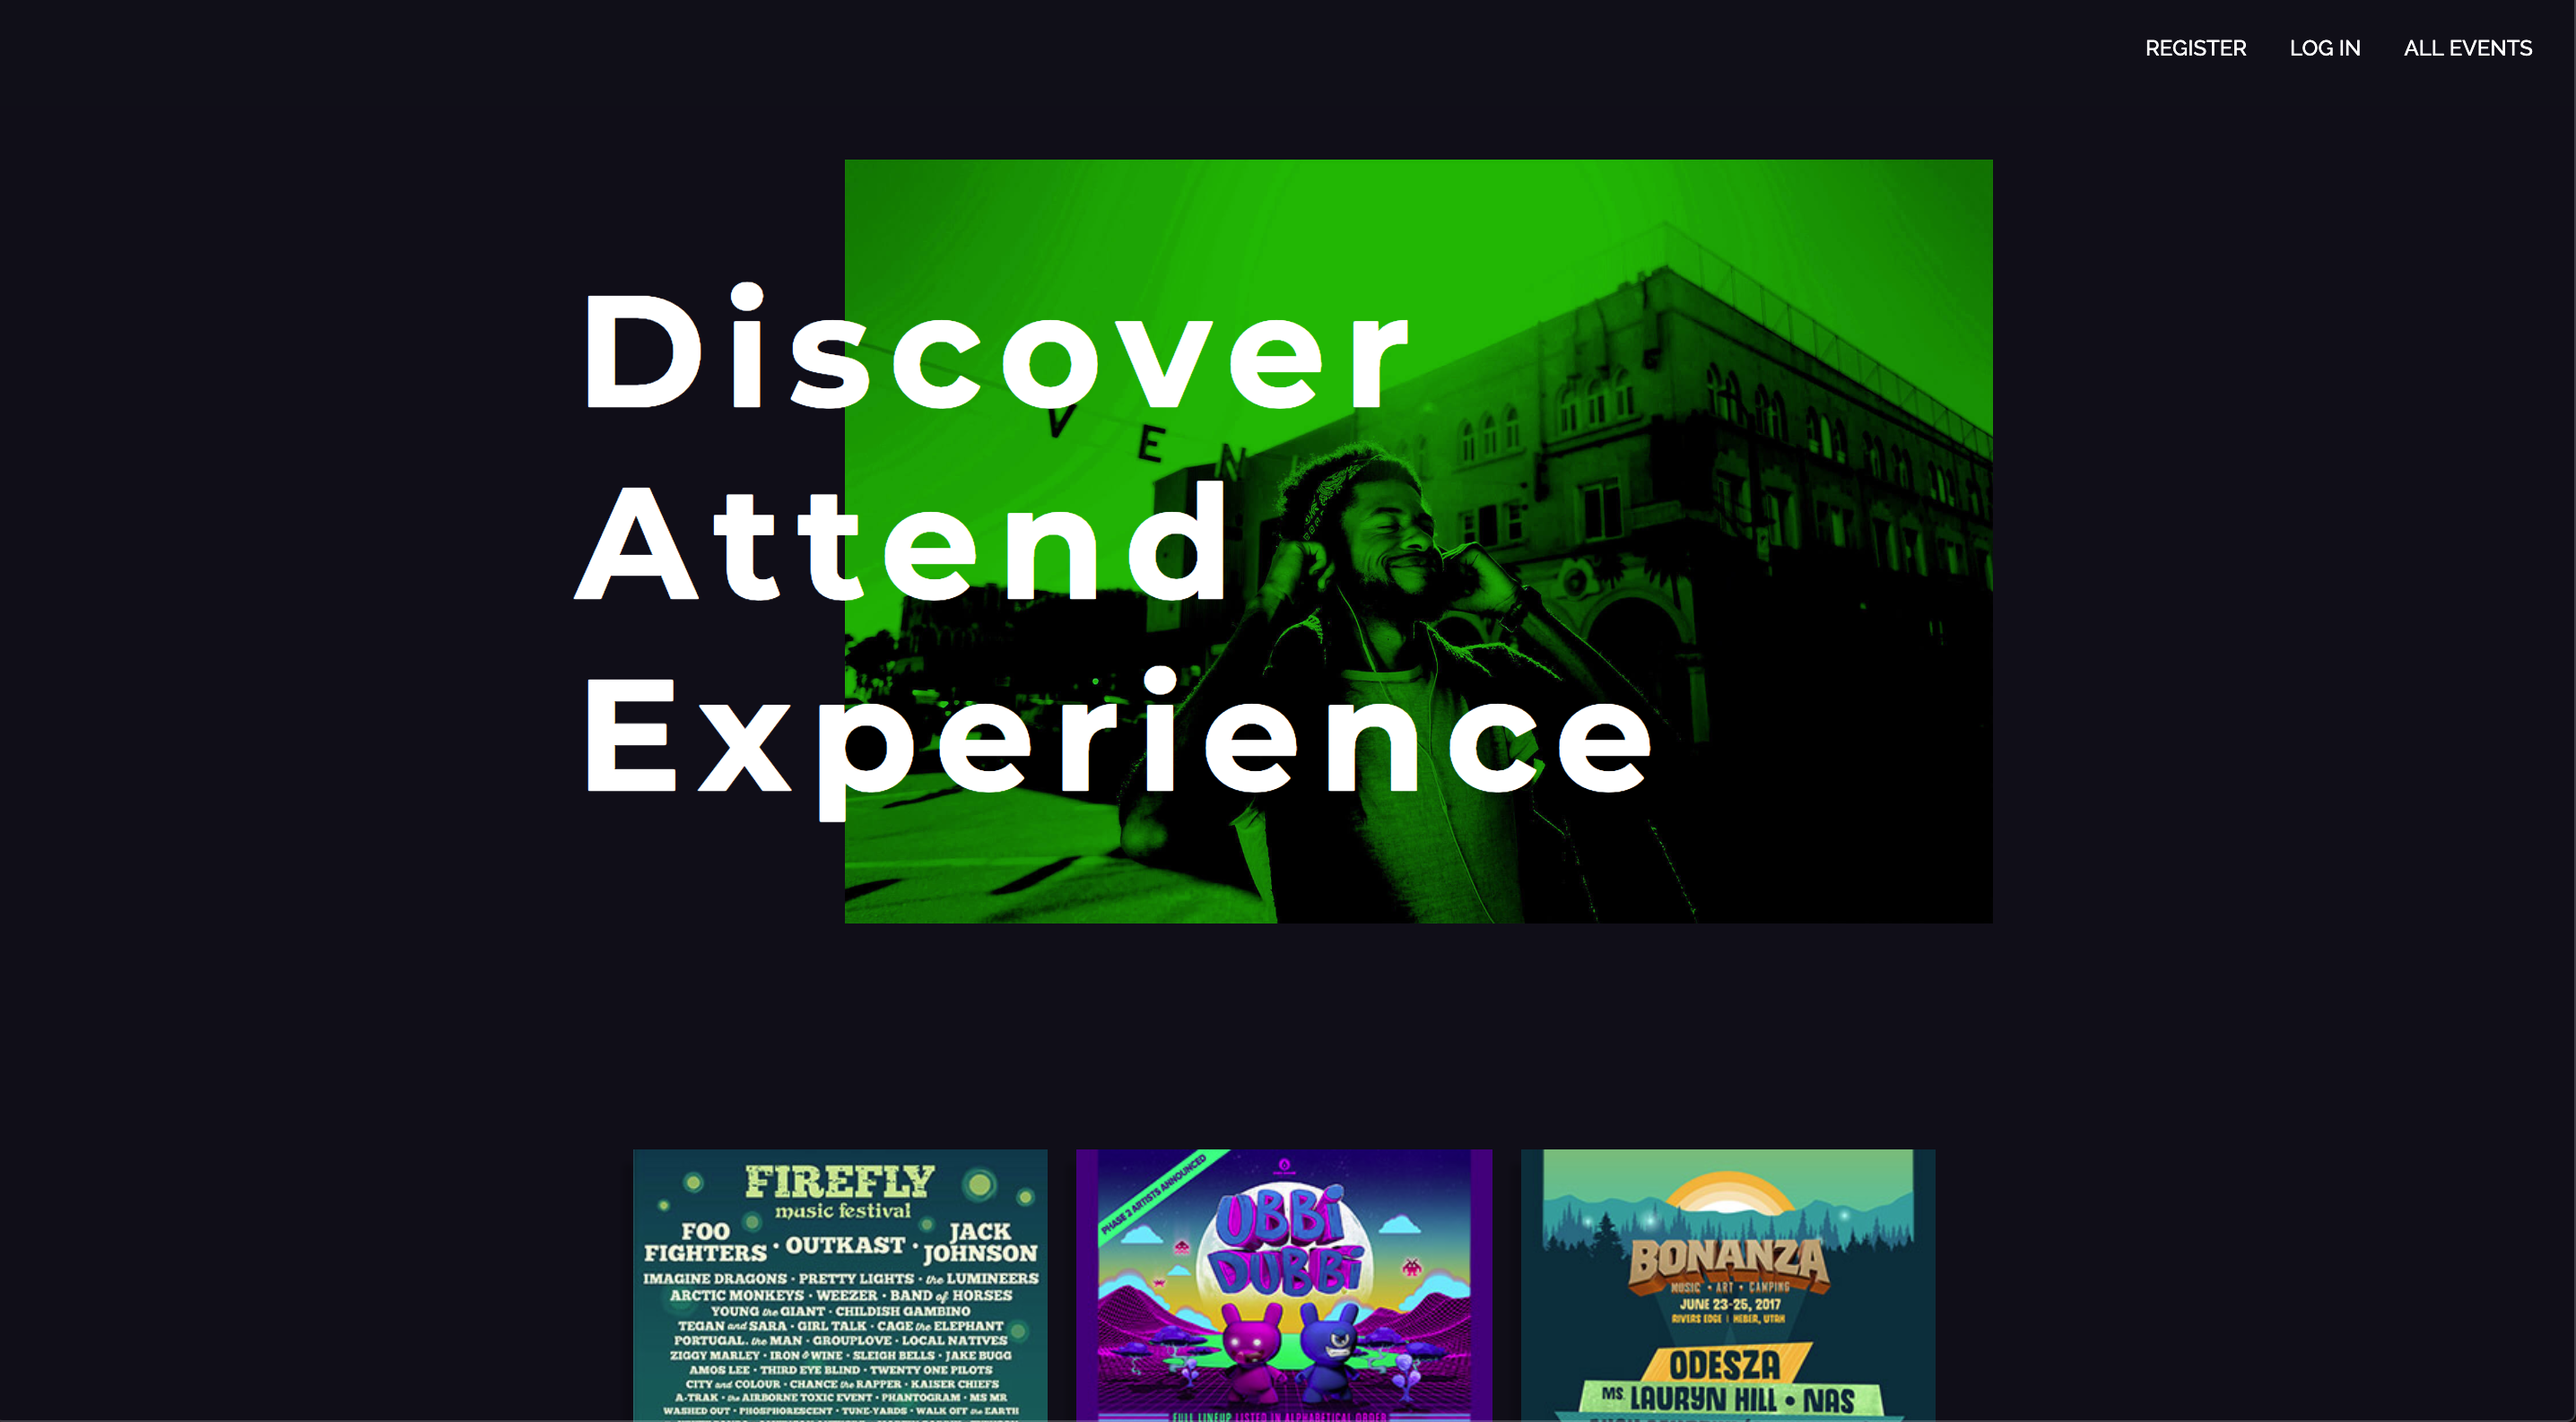
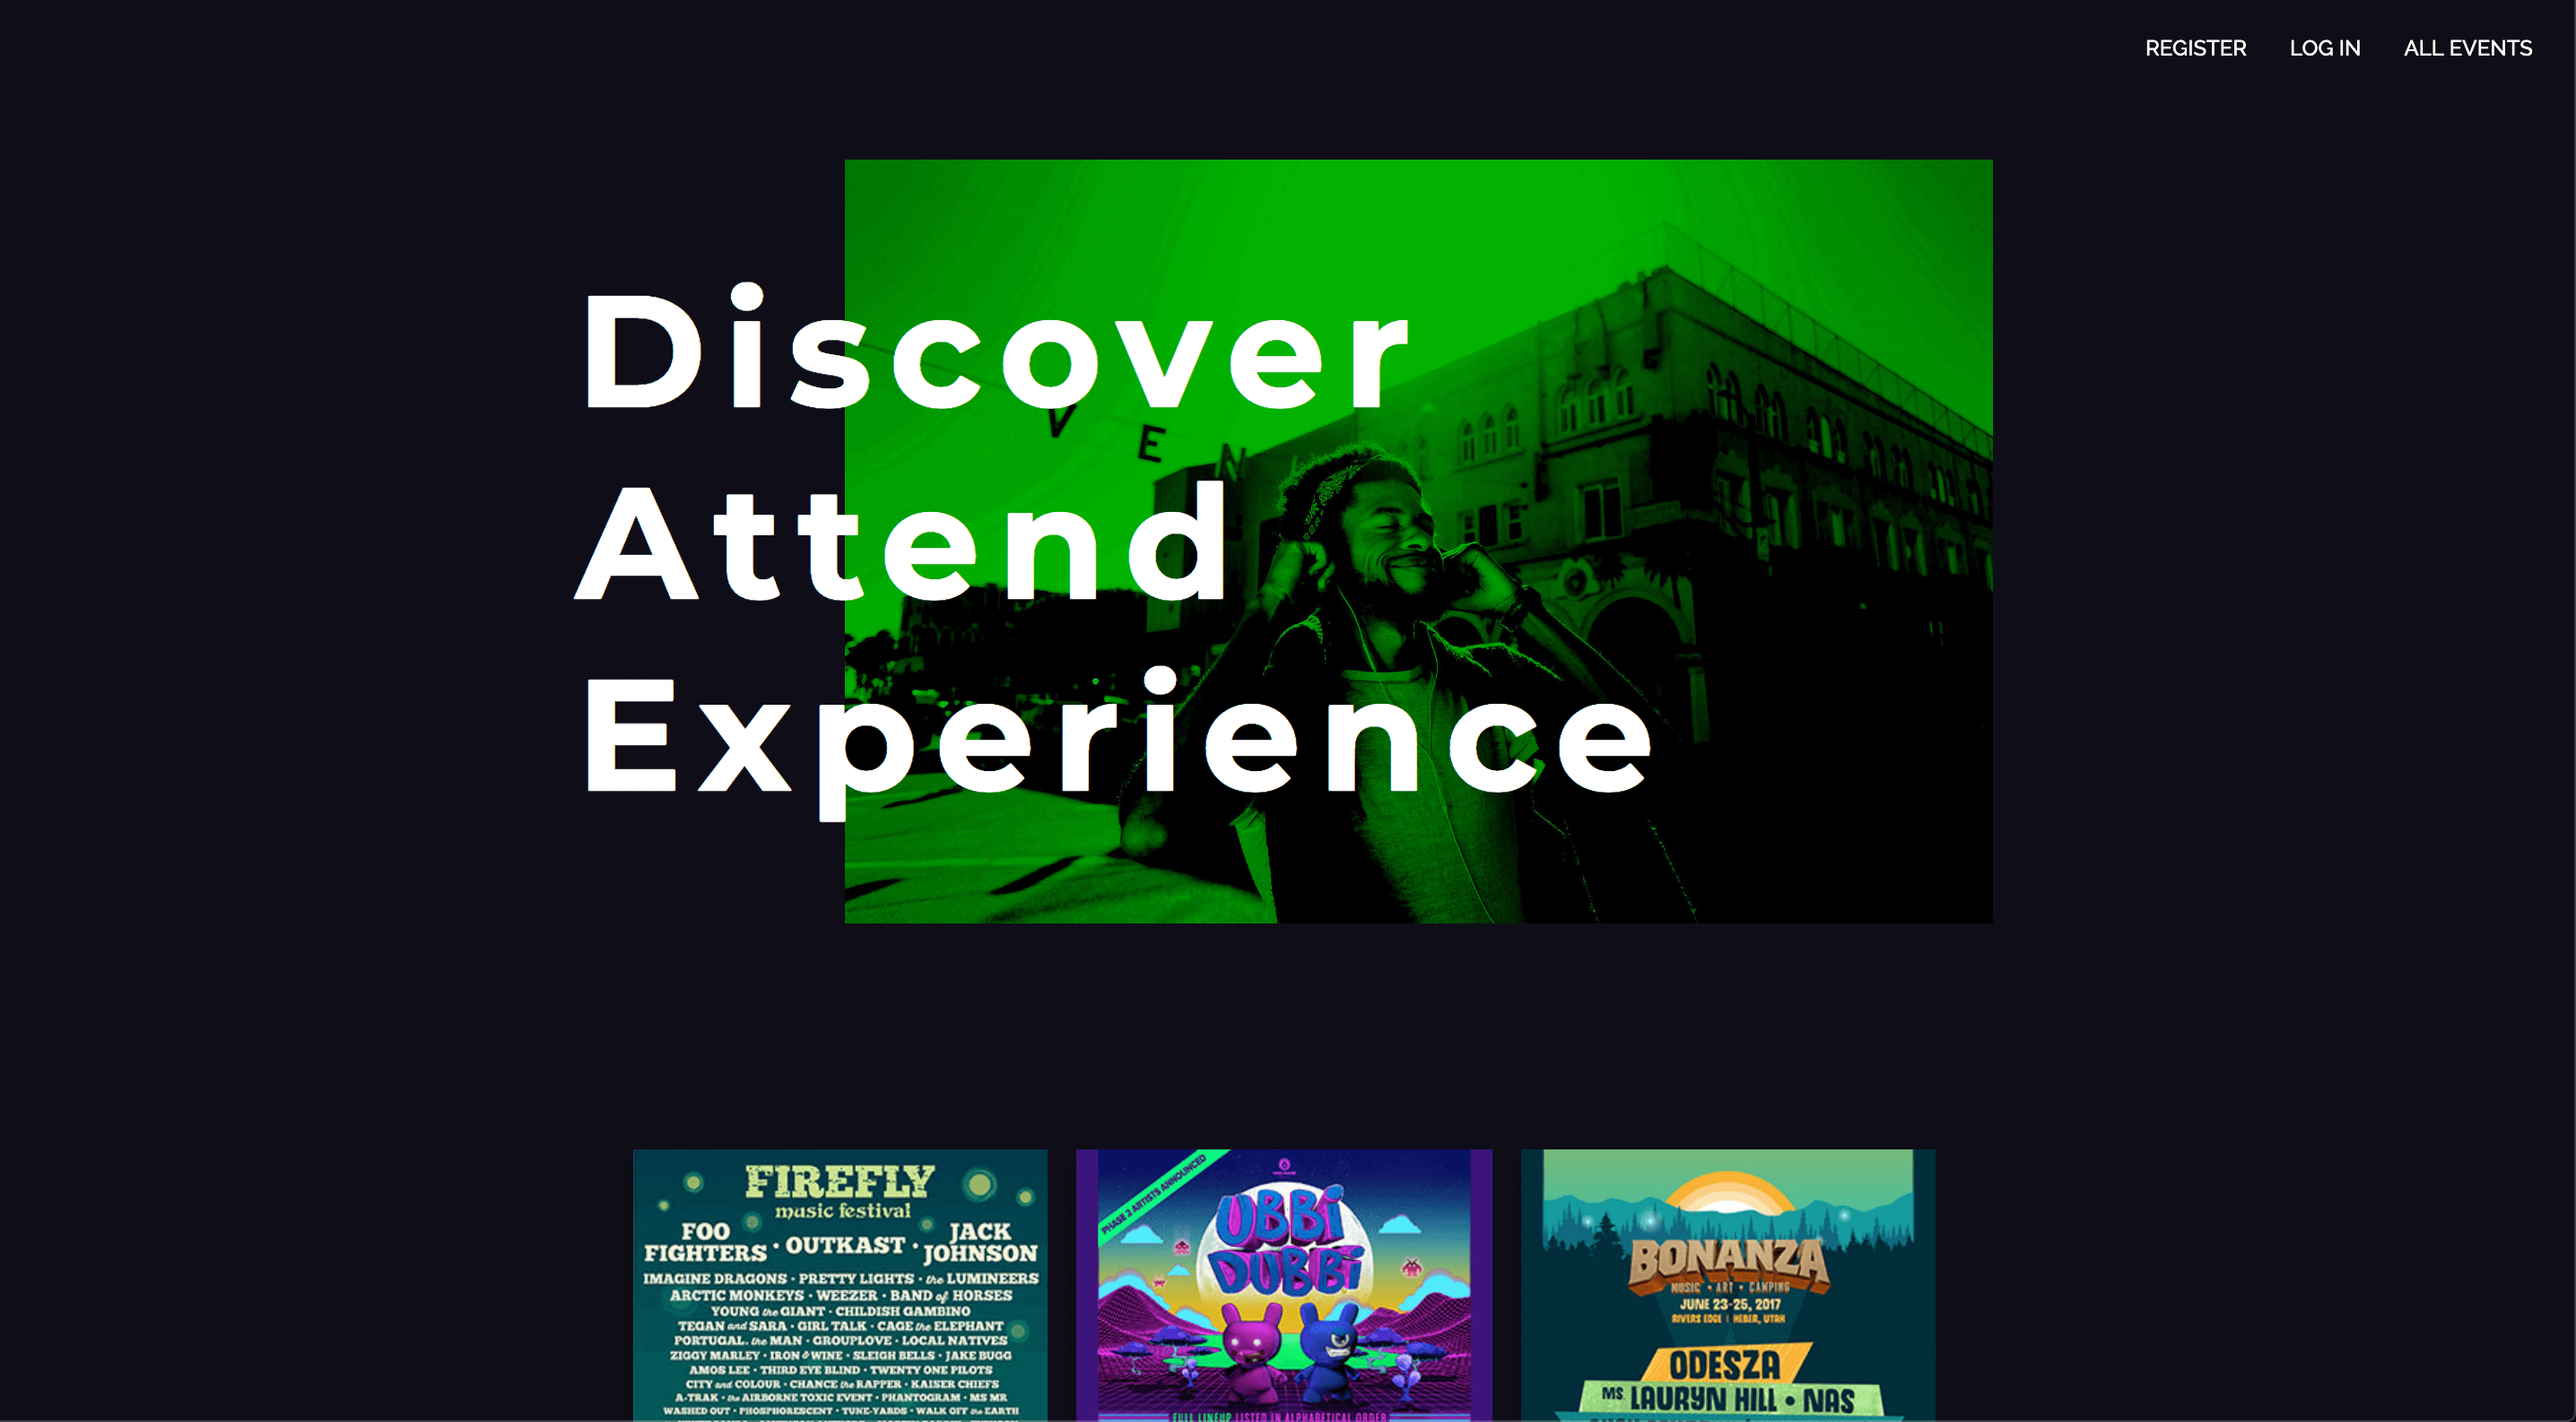
optimize png pics

diff --git a/components/Portfolio/Portfolio.js b/components/Portfolio/Portfolio.js
@@ -1,6 +1,7 @@
 import portfolio from '../Portfolio/Portfolio.scss';
 import Button from '../common/Button';
 import projects from '../../utils/projects';
+import Link from 'next/link';
 
 const getProjects = () => {
     return projects.map(project => {
@@ -9,20 +10,32 @@ const getProjects = () => {
                 key={project.id}
                 className={portfolio['portfolio-container__content']}
             >
-                <div className={portfolio['portfolio-container__box']}>
-                    <img
-                        src={project.picture}
-                        alt="Portfolio-1"
-                        className={portfolio['portfolio-container__img']}
-                    />
-                    <div className={portfolio['portfolio-container__buttons']}>
-                        <Button
-                            id={project.id}
-                            type="internal"
-                            title="Learn More"
-                            href={`/project?title=${project.title}`}
-                        />
-                    </div>
+                <div
+                    className={portfolio['portfolio-container__box']}
+                    href={`/project?title=${project.title}`}
+                >
+                    <Link href={`/projects/${project.id}`}>
+                        <div>
+                            <img
+                                src={project.picture}
+                                alt="Portfolio-1"
+                                className={
+                                    portfolio['portfolio-container__img']
+                                }
+                            />
+                            <div
+                                className={
+                                    portfolio['portfolio-container__buttons']
+                                }
+                            >
+                                <Button
+                                    id={project.id}
+                                    type="internal"
+                                    title="Learn More"
+                                />
+                            </div>
+                        </div>
+                    </Link>
                 </div>
             </div>
         );

diff --git a/components/Portfolio/ProjectPage.scss b/components/Portfolio/ProjectPage.scss
@@ -1,3 +1,5 @@
+@import '../../sass/mixins.scss';
+
 .projectPage {
     &__container {
         display: flex;
@@ -7,10 +9,13 @@
     }
 
     &__img {
-        width: 65vw;
-        height: 50vh;
+        max-width: 85rem;
+        height: auto;
         box-shadow: 0 2rem 5rem rgba(0, 0, 0, 0.6);
         margin: 5rem;
+        @include sm {
+            width: 85vw;
+        }
     }
     &__buttons {
         display: flex;
@@ -18,9 +23,12 @@
         align-items: center;
     }
     &__textBox {
-        width: 50rem;
-        font-size: 1.5rem;
+        width: 75vw;
+        font-size: 2.5rem;
         font-weight: 300;
+        @include cinema {
+            width: 75rem;
+        }
     }
     &__heading {
         font-size: 30px;

diff --git a/components/common/Button.js b/components/common/Button.js
@@ -5,16 +5,6 @@ const Button = ({ title, type, href, id }) => {
     switch (type) {
         case 'internal':
             return (
-                <Link href="projects/[id]" as={`/projects/${id}`}>
-                    <div className={button['container']}>
-                        <button className={button['btn']} type={type}>
-                            {title}
-                        </button>
-                    </div>
-                </Link>
-            );
-        case 'inter': // still internal but for non dynamic pages
-            return (
                 <Link href={href}>
                     <div className={button['container']}>
                         <button className={button['btn']} type={type}>

diff --git a/components/Main/Main.js b/components/Main/Main.js
@@ -20,7 +20,7 @@ const Main = () => {
                     web developer
                 </h2>
 
-                <Button type="inter" href="/about" title="About Me" />
+                <Button type="internal" href="/about" title="About Me" />
             </div>
         </div>
     );

diff --git a/sass/mixins.scss b/sass/mixins.scss
@@ -11,6 +11,7 @@
 }
 
 @mixin cinema {
-    @media (max-width: 1600) {
+    @media (max-width: 1200) {
+        @content;
     }
 }
